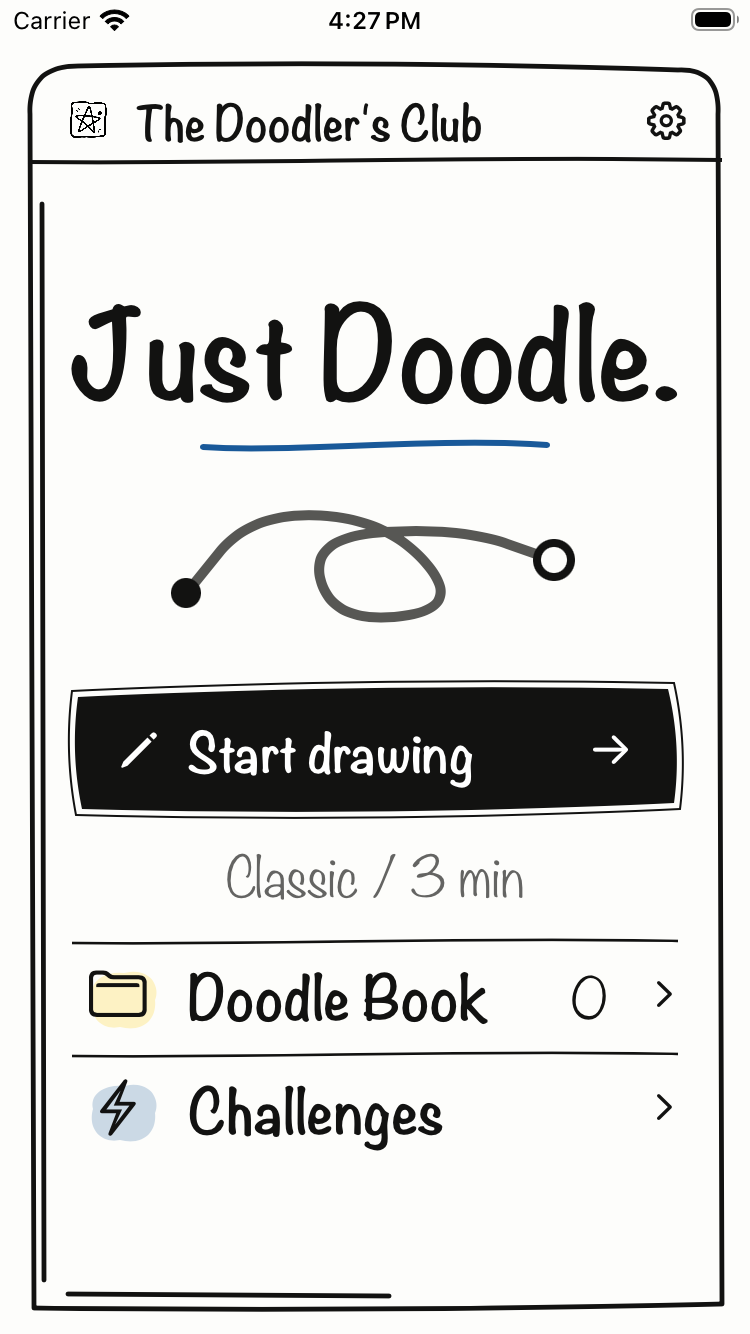
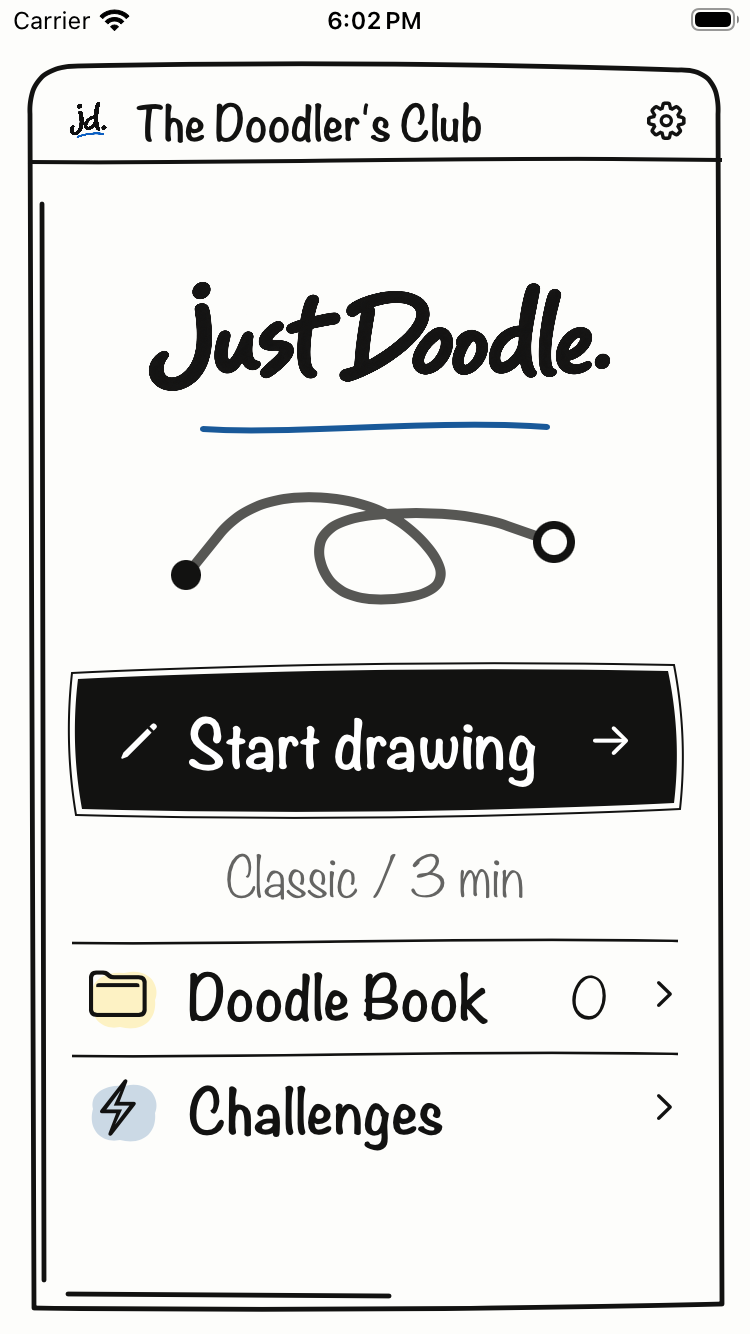
Refresh signature branding and add Apple launch guide

diff --git a/JustDoodle/DoodleViews.swift b/JustDoodle/DoodleViews.swift
@@ -401,9 +401,14 @@ struct HomeMasthead: View {
 
     var body: some View {
         VStack(spacing: 0) {
-            Text("Just Doodle.")
-                .font(.doodleTitle(43)).lineLimit(1).minimumScaleFactor(0.55)
-                .foregroundStyle(Ink.black)
+            Image("JustDoodleWordmark")
+                .resizable()
+                .scaledToFit()
+                .frame(maxWidth: 330)
+                .frame(height: 82)
+                .accessibilityLabel("Just Doodle")
+                .accessibilityAddTraits(.isHeader)
+                .accessibilityIdentifier("brandWordmark")
             HandUnderline().trim(from: 0, to: signed ? 1 : 0)
                 .stroke(Ink.blue, style: StrokeStyle(lineWidth: 3, lineCap: .round))
                 .frame(width: 176, height: 8)

diff --git a/UITests/DoodleUITests.swift b/UITests/DoodleUITests.swift
@@ -68,6 +68,10 @@ final class DoodleUITests: XCTestCase {
 
     func testHomeNavigationFitsWindow() {
         let window = app.windows.firstMatch.frame
+        let wordmark = app.images["brandWordmark"]
+        XCTAssertTrue(wordmark.exists)
+        XCTAssertEqual(wordmark.label, "Just Doodle")
+        XCTAssertTrue(window.contains(wordmark.frame))
         for identifier in ["startClassic", "doodleBook", "challenges", "settings"] {
             let control = app.buttons[identifier]
             XCTAssertTrue(control.isHittable, identifier)

diff --git a/AppStore/GETTING_STARTED.md b/AppStore/GETTING_STARTED.md
@@ -1,0 +1,88 @@
+# Getting Just Doodle onto the App Store
+
+Owner's launch guide, checked against Apple's documentation on September 27, 2026. The app is not submitted or approved yet. The technical checklist lives in [RELEASE.md](RELEASE.md).
+
+## 1. Enroll with Apple
+
+Join the **Apple Developer Program**, not the Enterprise Program. Membership is **US$99 per year**, or local pricing. An individual membership shows your legal name as the seller. An organization membership requires a legal entity and usually a D-U-N-S Number. Individual enrollment requires the legal age of majority in your region and an Apple Account with two-factor authentication. [Apple enrollment guide](https://developer.apple.com/programs/enroll/).
+
+Use the account that should own the app long-term. Do not send passwords, verification codes, or signing certificates through chat.
+
+## 2. Connect Xcode to Your Team
+
+Open `JustDoodle.xcodeproj`. Add your Apple Account in Xcode Settings, select the **JustDoodle** app target, then open **Signing & Capabilities**, enable automatic signing, and choose your paid developer team. Run on a connected iPhone first. Apple's [distribution guide](https://developer.apple.com/documentation/Xcode/distributing-your-app-for-beta-testing-and-releases) covers signing and distribution.
+
+This project's bundle identifier is **`com.kusharora.JustDoodle`**. Confirm that your team can register/use it before creating the store record. Do not casually change it later: the identifier is part of the app's identity and local data container.
+
+The repository currently uses Xcode 26.3. Apple's April 28, 2026 minimum is Xcode 26 with the iOS 26 SDK or later. Check the [current submission requirements](https://developer.apple.com/news/upcoming-requirements/?id=04282026a) again at upload time. The minimum iOS version users can run remains a separate setting, currently iOS 16.
+
+## 3. Create the App Store Connect Record
+
+In [App Store Connect](https://appstoreconnect.apple.com), open **Apps**, choose **+**, then **New App**. Use the following starting values, confirming availability in your account. [Apple's new-app instructions](https://developer.apple.com/help/app-store-connect/create-an-app-record/add-a-new-app/).
+
+| Field | Value |
+| :--- | :--- |
+| Platform | iOS, covering this app's iPhone and iPad build |
+| Name | Just Doodle, subject to availability |
+| Primary language | English |
+| Bundle ID | The registered identifier matching Xcode |
+| SKU | An owner-chosen unique internal code, such as `justdoodle-ios-001` |
+
+Only create the record once. Complete agreements and any account information Apple requests in your own account.
+
+## 4. Publish Support and Privacy Pages
+
+The files are already written: [support.html](../Website/support.html) and [privacy.html](../Website/privacy.html). Publish them on a public HTTPS website accessible without a login. A private GitHub file link is not a public support website.
+
+Enter the hosted URLs in App Store Connect. Apple requires a privacy-policy URL for all apps. [App Privacy instructions](https://developer.apple.com/help/app-store-connect/manage-app-information/manage-app-privacy/).
+
+In the app target's Release build settings, add the user-defined setting **`JUST_DOODLE_PRIVACY_URL`** with the full hosted privacy URL before archiving. This supplies the online policy link in Settings; the offline policy is already included. Support email is **kushsarora@gmail.com**.
+
+## 5. Upload a Build and Test It
+
+Run the repository checks first:
+
+```bash
+bash scripts/check.sh 'platform=iOS Simulator,name=iPhone 17 Pro'
+```
+
+Then select the shared **JustDoodle** scheme and a generic iOS device destination in Xcode, choose **Product > Archive**, and use Organizer to validate and distribute the signed archive to **App Store Connect**. Increase the build number for subsequent uploads. The script's unsigned archive is not an uploadable substitute. [Apple upload instructions](https://help.apple.com/xcode/mac/current/en.lproj/dev442d7f2ca.html).
+
+Once the build has processed, configure TestFlight and invite testers. External testing may require beta review. [TestFlight overview](https://developer.apple.com/help/app-store-connect/test-a-beta-version/testflight-overview/).
+
+For this app, verify these on real hardware before release:
+
+- Finger drawing on iPhone and Apple Pencil on a supported iPad.
+- Three-minute Classic, early **Done**, automatic finish, and time-up vibration.
+- Backgrounding, force-quitting, and recovering a draft without losing the drawing.
+- Photos access allowed and denied, share-sheet dismissal, and Doodle Book save/delete.
+- Small screens, large text, Reduce Motion, and iPad rotation.
+- New icon on the Home Screen and new branding throughout the app.
+
+## 6. Finish the Store Listing
+
+Start from [metadata.md](metadata.md), then confirm the name, subtitle, description, keywords, categories, copyright holder, pricing, territories, review contact, age-rating questionnaire, export compliance, and App Privacy answers. Use the actual release build's behavior; the current app has no backend, accounts, ads, or analytics. The owner must still review Apple's data-collection definitions and any support practices. [Apple's submission overview](https://developer.apple.com/app-store/submitting/).
+
+Make real drawings and capture the final UI for the device sizes App Store Connect requests. The [review gallery](ReviewScreenshots/README.md) contains automated test strokes and is not the final store screenshot set. [Apple screenshot guidance](https://developer.apple.com/help/app-store-connect/manage-app-information/upload-app-previews-and-screenshots/).
+
+## 7. Submit, Then Release
+
+Select the tested build, complete the required metadata, and choose **Add for Review**, then submit the draft submission. We recommend **manual release** so you can coordinate launch after approval. Watch App Store Connect for reviewer questions. Approval and review timing are Apple's decision. [Apple submission instructions](https://developer.apple.com/help/app-store-connect/manage-submissions-to-app-review/submit-an-app/).
+
+Before submission, run the repository's additional gate on the signed archive:
+
+```bash
+bash scripts/validate-archive.sh /path/to/JustDoodle.xcarchive --submission
+```
+
+This checks local signing-related prerequisites and the policy URL; it is not Apple's validation or a guarantee of acceptance.
+
+## What to Bring Back
+
+- Confirmation that your Apple Developer membership is active and whether it is individual or organization.
+- Your selected team name/Team ID and confirmation of the bundle identifier, not credentials.
+- The public support and privacy URLs.
+- Your decisions on pricing, launch territories, and legal copyright-holder name.
+- Your feedback after trying the build, especially the new branding.
+
+No Apple enrollment, signing identity, store record, hosted website, or submission is created by this guide.

diff --git a/Branding/PROMPTS.md b/Branding/PROMPTS.md
@@ -1,0 +1,39 @@
+# Branding Generation Record
+
+Created September 27, 2026 with the built-in image-generation tool, not the API/CLI fallback. Selected raster outputs are stored in the app asset catalog and `Branding/`; discarded variants are not shipped. The icon was mechanically resized from 1254 x 1254 to 1024 x 1024 for the asset catalog.
+
+## App Icon
+
+```text
+Use case: logo-brand.
+Asset type: final production iOS app icon, one square 1024x1024 PNG, not a presentation mockup.
+Primary request: design a beautiful, distinctive, extremely clean hand-inked monogram for Just Doodle, a native doodling game. Its world is white notebook pages, slightly imperfect black marker linework, handwritten signatures, and small blue ink accents.
+Subject: exact lowercase letters "jd." in custom bold black felt-tip handwriting, one expressive unified signature. The j must have its dot, the d a clear open counter, period small and deliberate. Friendly confident chunky strokes with gently organic edges, exceptionally readable at 40px. Contemporary independent drawing-club identity, not corporate and not childish.
+Composition: centered large monogram occupying about 65 percent of square width, generous 16 percent clear margins. One short gently curved blue ink underline beneath the letters. White full-bleed opaque background #FFFFFF, black #151515, blue #205FA0. Only these elements.
+Constraints: full square opaque artwork, no rounded app-icon mask, no outer border, no shadows, no 3D, no ruled lines, no paper grain, no gradients, no stars/sparkles, no pencil objects, no hands, no decorative confetti, no extra text. No thin cursive hairlines. Not a logo sheet. Deliver a single finished image.
+```
+
+## Transparent Monogram
+
+```text
+Use case: background-extraction. Asset type: transparent app brand mark for Just Doodle.
+Input image is the approved "jd." monogram app icon. Preserve its exact custom black lowercase lettering, the dot on the j, the period, and its blue underline, without redesigning anything. Remove only the white background and deliver a genuinely transparent PNG (alpha channel), NOT a drawn checkerboard, no white halo or background. Square composition. Keep the same framing and same colors. This mark will appear in a 28pt navigation header and larger splash screen. No extra elements, no text additions, no shadows.
+```
+
+## Just Doodle Wordmark
+
+```text
+Use case: logo-brand.
+Asset type: final transparent horizontal wordmark for a native drawing app.
+Input image is STYLE REFERENCE ONLY: match the confident bold black felt-tip hand-lettering of its jd. monogram.
+Exact text: "Just Doodle." on ONE horizontal line, case-sensitive, with the period at the end only. Draw custom legible friendly signature lettering, slightly imperfect organic contours, substantial rounded black strokes, not thin cursive, not a typeset geometric font. This must read clearly as Just Doodle. The two o letters are open, slightly different handwritten loops.
+Composition: very wide 3:1 transparent canvas, lettering spans 90 percent width, centered vertically and horizontally, tight top and bottom margins without clipping any strokes. Black #151515 only, no underline (the app animates an underline separately). Genuine alpha transparency, no white rectangle, no checkerboard. No symbols, doodles, gradients, shadows, borders, notebook rules, mockups, or other text. One finished logo, not a brand sheet.
+```
+
+## Club Logo (Selected White-Background Version)
+
+```text
+Use case: logo-brand. Final flat, crisp, beautiful hand-lettered logo for The Doodler's Club, a playful independent drawing club. One logo only, no mockup.
+Plain SOLID WHITE background. Centered exact text "The Doodler's Club" in three lines: small "The", large "Doodler's", large "Club". Bold BLACK custom felt-tip lettering, friendly irregular handwritten curves, very readable open counters and apostrophe. The style resembles a confident artist's signature on a fresh sketchbook. Tight thoughtful spacing, nice balance. A SINGLE short solid BLUE (#205FA0) drawn underline below Club. Wide 3:2 canvas, all artwork within clear 12 percent margins.
+STRICT: flat colors only, sharp clean edges, absolutely NO shadow, no glow, no blur, no haze, no gradients, no texture, no dimensional lighting, no neon, no other objects, no decorative marks, no border. Solid opaque white background everywhere except the lettering and blue underline.
+```

diff --git a/AppStore/REVIEW.md b/AppStore/REVIEW.md
@@ -2,6 +2,18 @@
 
 Core release-candidate verification completed September 9, 2026; release packaging resumed September 10. A subsequent home-screen design iteration is documented below. Nothing has been submitted to the App Store.
 
+## September 27 Branding Refresh
+
+Replaced the paper-text app icon and star badge with a black `jd.` signature and blue underline. Added a matching transparent home wordmark, keeping the existing drawn underline animation, VoiceOver label, and heading semantics. The compact mark appears in the home header, splash, and empty book. A full club logo and the generation record are in [the branding kit](../Branding/README.md). Game rules, storage, and export behavior are unchanged.
+
+`/private/tmp/JustDoodle-September27-Branding-Checked.xcresult` passed all 27 unit tests and two selected UI tests on iPhone SE: home navigation/wordmark accessibility and bounds, plus large-text home/drawing/result controls. Home and large-text home screenshots were inspected and refreshed in the gallery. The earlier `JustDoodle-September27-Branding.xcresult` attempt used incorrect test-target filters and ran no tests; it is not verification evidence.
+
+The unsigned device Release archive at `/private/tmp/JustDoodle-September27-Release.xcarchive` built successfully and passed `scripts/validate-archive.sh`. The source icon is 1024 x 1024 with no alpha channel; both in-app wordmark/monogram PNGs have alpha channels. Asset-catalog JSON, file references, documentation links, and diff whitespace were checked. This archive includes the new branding and supersedes the September 20 archive for reviewing the current appearance; it is not signed for distribution or uploaded.
+
+`/private/tmp/JustDoodle-September27-iPad-Branding-Retry.xcresult` passed the home navigation, wordmark accessibility, and bounds test on iPad Pro 13-inch. Its home capture was visually inspected and refreshed in the gallery. The first iPad attempt timed out waiting for the automation runner's accessibility initialization before executing the test; the successful warm-simulator retry supersedes it.
+
+The new [owner's launch guide](GETTING_STARTED.md) explains the remaining Apple steps with official sources checked September 27. Owner approval of the branding, signing, policy hosting, real-device/TestFlight testing, final listing screenshots, and App Review remain release gates.
+
 ## Home Screen Iteration
 
 The September 10-11 home redesign follows the owner's hand-drawn window reference: a double-stroked frame, compact club title bar, animated scribble, bold Start drawing control, and direct Doodle Book/Challenges rows. Resume, discard, settings, and saved-page counts remain connected to the existing game state. Other game screens and rules are unchanged.

diff --git a/Branding/README.md b/Branding/README.md
@@ -1,0 +1,34 @@
+# Just Doodle / Signature Kit
+
+September 27, 2026. Black felt-tip lettering, open counters, white space, and one blue ink underline. The compact `jd.` monogram connects the app icon to The Doodler's Club without cramming the full name into a tiny square.
+
+<table>
+  <tr><th>App icon</th><th>The Doodler's Club</th></tr>
+  <tr>
+    <td><img src="../JustDoodle/Assets.xcassets/AppIcon.appiconset/JustDoodleAppIcon.png" width="240" alt="Black jd. monogram with a blue underline on white"></td>
+    <td><img src="doodlers-club-logo.png" width="420" alt="The Doodler's Club hand-lettered logo with a blue underline"></td>
+  </tr>
+</table>
+
+## Files
+
+| Asset | File | Where it belongs |
+| :--- | :--- | :--- |
+| App icon | [1024 x 1024 PNG](../JustDoodle/Assets.xcassets/AppIcon.appiconset/JustDoodleAppIcon.png) | Xcode AppIcon catalog. Opaque, square, with no baked-in corner mask. |
+| Compact monogram | [Transparent PNG](../JustDoodle/Assets.xcassets/DoodlersClubMark.imageset/doodlers-club-mark.png) | Home header, splash, and empty Doodle Book. |
+| Just Doodle signature | [Transparent PNG](../JustDoodle/Assets.xcassets/JustDoodleWordmark.imageset/just-doodle-wordmark.png) | Home masthead. The app draws and animates its underline separately. |
+| Club logo | [White-background PNG](doodlers-club-logo.png) | Community graphics, launch materials, and social posts. Not the small app icon. |
+
+The in-app club title remains native text for legibility and accessibility. The home signature image has a VoiceOver label and heading trait. UI controls continue to use the system's Noteworthy face rather than rasterized labels.
+
+## Use the Kit
+
+- Keep the original aspect ratio and clear margins. Do not stretch or crop the lettering.
+- Use transparent black-ink assets on light backgrounds. A separate reversed treatment would be needed for dark artwork.
+- Use the compact monogram at small sizes; reserve the full club logo for larger placements.
+- Keep the blue accent restrained. Do not add glows, shadows, gradients, or extra doodles around the marks.
+- Let iOS apply the app-icon corner mask. The source stays fully square and opaque.
+
+Generated with the built-in image-generation tool; see [the prompt record](PROMPTS.md). The app icon was resized to the catalog's required 1024 x 1024 dimensions. These are raster assets, not editable vector masters or a trademark clearance. Review the identity before publishing; previous branding remains in Git history.
+
+[Project](../README.md) &middot; [Apple launch guide](../AppStore/GETTING_STARTED.md)

diff --git a/README.md b/README.md
@@ -1,5 +1,5 @@
 <p align="center">
-  <img src="JustDoodle/Assets.xcassets/AppIcon.appiconset/JustDoodleAppIcon.png" width="120" alt="Just Doodle handwritten signature on notebook paper">
+  <img src="JustDoodle/Assets.xcassets/AppIcon.appiconset/JustDoodleAppIcon.png" width="120" alt="Just Doodle jd. handwritten monogram with a blue underline">
 </p>
 
 <h1 align="center">Just Doodle</h1>
@@ -24,6 +24,8 @@ Just Doodle starts with an imperfect line. Turn it into something unexpected bef
 
 **Native SwiftUI + PencilKit. iOS 16+. No accounts, ads, or external dependencies.**
 
+The September 27 signature refresh includes a new app icon, transparent monogram, and matching wordmarks. See the [branding kit](Branding/README.md) for the assets and [Apple launch guide](AppStore/GETTING_STARTED.md) for the owner-facing release steps.
+
 ## A Look Inside
 
 <table>
@@ -39,7 +41,7 @@ Just Doodle starts with an imperfect line. Turn it into something unexpected bef
   </tr>
 </table>
 
-Actual simulator captures, September 17-19, 2026. Drawings contain automated test strokes, not finished App Store artwork. Tap any image for full size, or browse the [complete gallery](AppStore/ReviewScreenshots/README.md) for challenges, the Doodle Book, settings, large text, and iPad layouts.
+Actual simulator captures: home refreshed September 27, 2026; drawing and result from September 17-19. Drawings contain automated test strokes, not finished App Store artwork. Tap any image for full size, or browse the [complete gallery](AppStore/ReviewScreenshots/README.md) for challenges, the Doodle Book, settings, large text, and iPad layouts.
 
 ## One Line, Lots of Possibilities
 

diff --git a/AppStore/ReviewScreenshots/README.md b/AppStore/ReviewScreenshots/README.md
@@ -8,7 +8,7 @@ These are **real, unedited simulator captures** from automated workflows. The sh
 
 ## Start, Draw, Finish
 
-iPhone SE (3rd generation), September 17-19, 2026. Result and saved-preview images include the September 19 image-sizing hardening.
+iPhone SE (3rd generation). Home and large-text home were refreshed September 27, 2026 with the new signature and monogram. Other iPhone SE captures are from September 17-19; result and saved-preview images include the September 19 image-sizing hardening.
 
 <table>
   <tr><th>Home</th><th>Drawing</th><th>Finished drawing</th></tr>
@@ -62,9 +62,9 @@ iPad Pro 13-inch landscape drawing, September 19, 2026.
 <details>
 <summary>Also see the iPad home screen</summary>
 
-Approved home capture from September 11, 2026, retained as a reference. It predates the September 17-19 app-wide captures above.
+Home capture refreshed September 27, 2026 with the new signature and monogram, following the passing iPad home navigation and accessibility check.
 
-<a href="iPad-Home.png"><img src="iPad-Home.png" width="620" alt="Earlier approved iPad home screen with the handwritten Just Doodle identity"></a>
+<a href="iPad-Home.png"><img src="iPad-Home.png" width="620" alt="iPad home screen with the refreshed Just Doodle signature and jd. monogram"></a>
 
 </details>
 

diff --git a/AppStore/RELEASE.md b/AppStore/RELEASE.md
@@ -2,6 +2,8 @@
 
 This repository can produce a tested release candidate. An unsigned local archive is not an App Store upload.
 
+First time publishing? Start with the [owner's Apple launch guide](GETTING_STARTED.md) for enrollment, signing, App Store Connect, and TestFlight.
+
 ## Local Verification
 
 Use Xcode 26 or later. iOS 16 remains the minimum supported operating system; the build SDK is newer.
